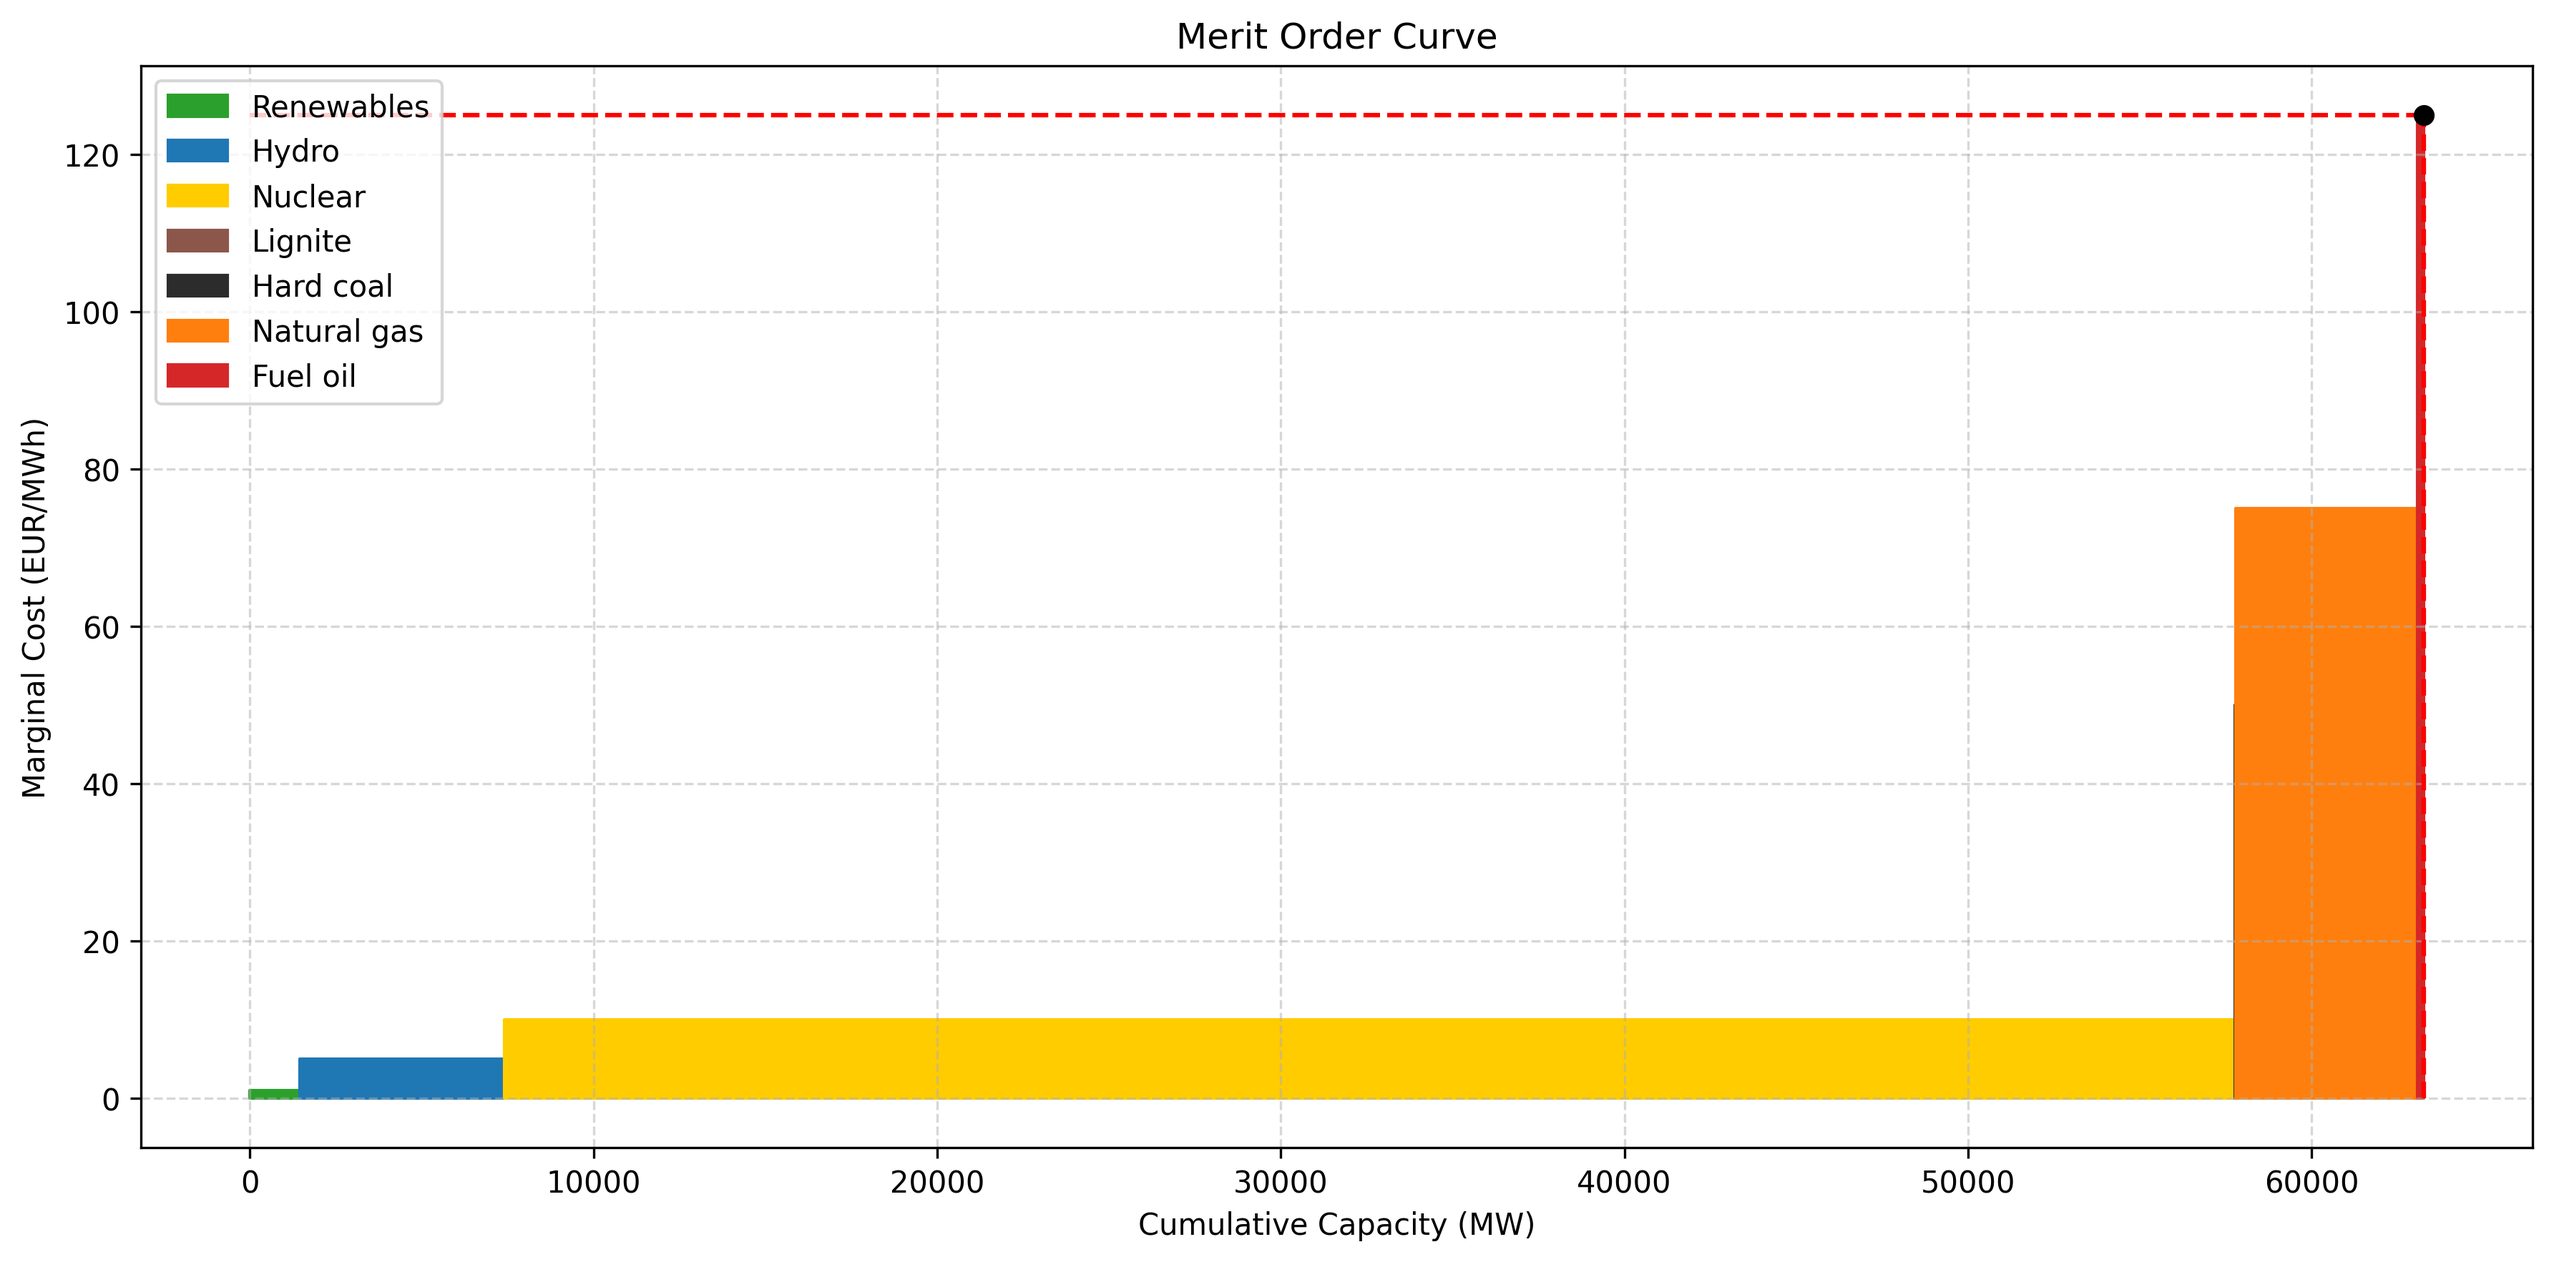
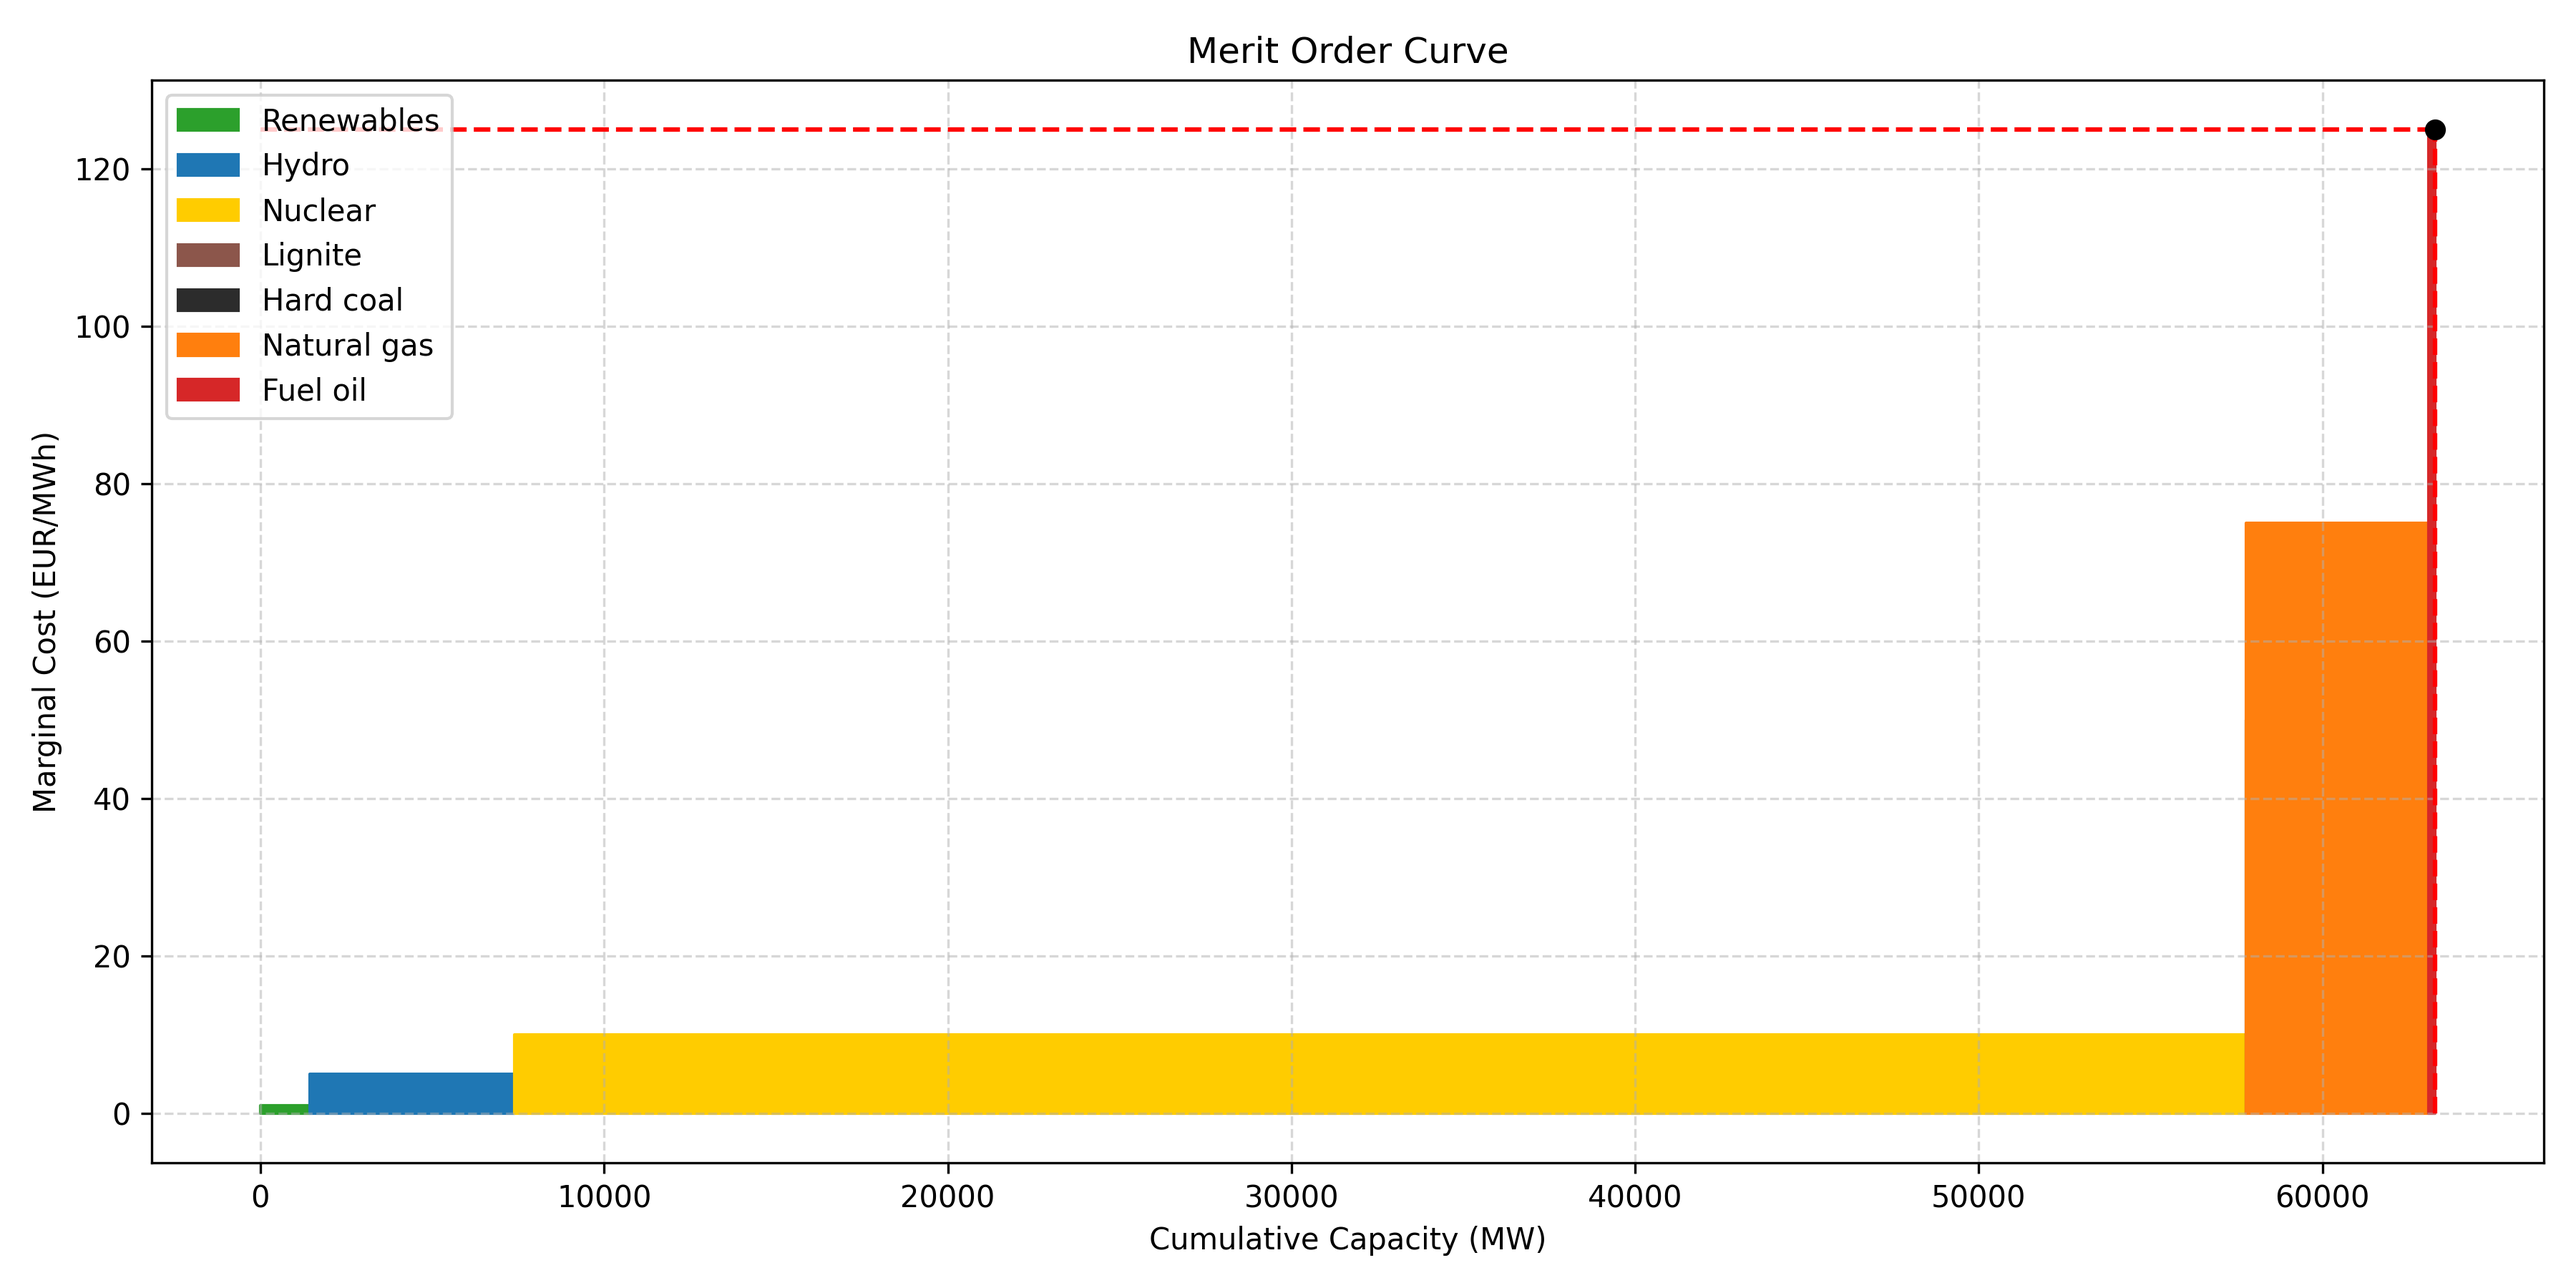
figures dimension 1

diff --git a/src/merit_order.py b/src/merit_order.py
@@ -103,7 +103,7 @@ def plot_donut(map_data, threshold_pct=3):
     ax.text(0, 0, 'Marginal\nEnergy Sources', ha='center', va='center', fontsize=14, weight='bold')
 
     plt.tight_layout()
-    fig.savefig(f'../figures/donut.png', dpi=300, bbox_inches='tight')
+    fig.savefig(f'../figures/donut.png', dpi=300)
     plt.show()
     plt.close()
 
@@ -207,7 +207,7 @@ def merit_order_curve(df, date):
     plt.legend(loc=2)
     plt.grid(True, linestyle='--', alpha=0.5)
     plt.tight_layout()
-    plt.savefig(f'../figures/merit_order_curve.png', dpi=300, bbox_inches='tight')
+    plt.savefig(f'../figures/merit_order_curve.png', dpi=300)
     plt.show()
     plt.close()
 

diff --git a/README.md b/README.md
@@ -74,8 +74,8 @@ This part focus on **visualization patterns** in the spot market
 ### Marginal Technology Mix
 
 <p align="center">
-  <img src="figures/merit_order_curve.png" alt="Plot 1" width="60%"/>
-  <img src="figures/donut.png" alt="Plot 2" width="35%"/>
+  <img src="figures/merit_order_curve.png" alt="Plot 1" width="45%"/>
+  <img src="figures/donut.png" alt="Plot 2" width="45%"/>
 </p>
 
 ## Part 4 - Market Forecast (work in progress)
